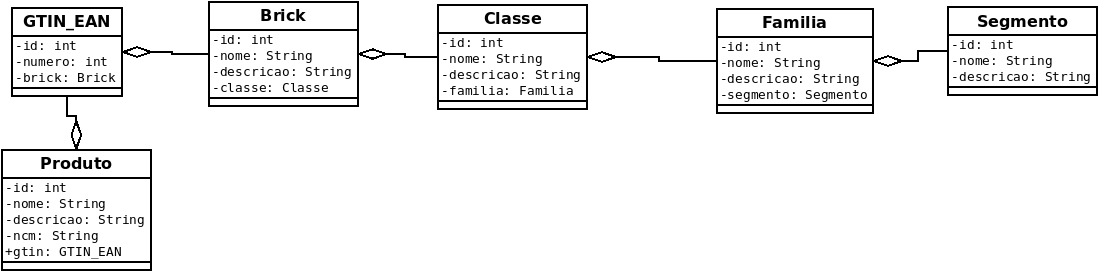
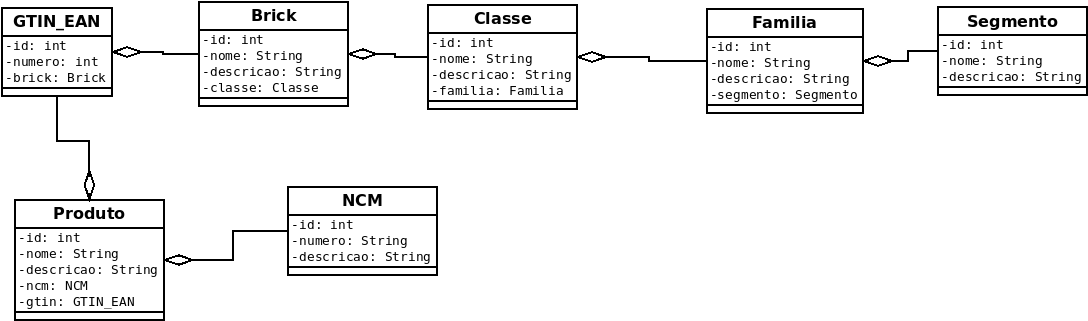
Atualizando modelo de NCM e modelagem da classe de Produto

Changed region(s): [[0.0, 0.0, 1.0, 1.0], [0.2188, 0.5588, 0.4062, 0.8824]]

diff --git a/orcaoline-api/src/test/java/com/orcaolineapi/repository/NCMRepositoryTest.java b/orcaoline-api/src/test/java/com/orcaolineapi/repository/NCMRepositoryTest.java
@@ -40,7 +40,7 @@ public class NCMRepositoryTest {
 	public void saveNCMWithNotNullIdShouldThrowsNoneException() {
 
 		assertDoesNotThrow(() -> {
-			NCM ncm = new NCM("12345678");
+			NCM ncm = new NCM("12345678","Descrição do NCM");
 			this.repositoryN.save(ncm);
 			assertThat(ncm.getId()).isNotNull();
 		});
@@ -59,21 +59,21 @@ public class NCMRepositoryTest {
 	}
 	
 	@Test
-	public void saveNCMNullNumberShouldThrowsDataIntegrityViolationException() {
+	public void saveNCMEmptyNumberShouldThrowsConstraintViolationException() {
 		
-		Throwable exception = assertThrows(DataIntegrityViolationException.class, () -> {			
-			NCM ncm = new NCM(null);
+		Throwable exception = assertThrows(ConstraintViolationException.class, () -> {			
+			NCM ncm = new NCM("", "Descrição do NCM");
 			this.repositoryN.save(ncm);
 		});
 		
-		assertEquals("Target object must not be null; nested exception is java.lang.IllegalArgumentException: Target object must not be null", exception.getMessage());
+		assertThat((exception.getMessage().contains("interpolatedMessage='{0} deve conter apenas dígitos.'")) && exception.getMessage().contains("interpolatedMessage='{0} deve ter o tamanho entre 8 e 8.'"));
 	}
 	
 	@Test
 	public void saveNCMWithBlankSpacesInNumberShouldThrowsConstraintViolationException() {
 
 		Throwable exception = assertThrows(ConstraintViolationException.class, () -> {
-			NCM ncm = new NCM("        ");
+			NCM ncm = new NCM("        ", "Descrição do NCM");
 			this.repositoryN.save(ncm);
 		});
 		
@@ -81,32 +81,65 @@ public class NCMRepositoryTest {
 	}
 	
 	@Test
+	public void saveNCMWithBlankDescriptionShouldThrowsNoneException() {
+
+		assertDoesNotThrow(() -> {
+			NCM ncm = new NCM("12345678","");
+			this.repositoryN.save(ncm);
+		});
+
+	}
+	
+	@Test
 	public void saveNCMWithEmptyNumberShouldThrowsConstraintViolationException() {
 
 		Throwable exception = assertThrows(ConstraintViolationException.class, () -> {
-			NCM ncm = new NCM("");
+			NCM ncm = new NCM("", "Descrição do NCM");
 			this.repositoryN.save(ncm);
 		});
 		
-		assertThat((exception.getMessage().contains("interpolatedMessage='{0} deve conter apenas letras.'")) && exception.getMessage().contains("interpolatedMessage='{0} deve ter o tamanho entre 8 e 8.'"));
+		assertThat((exception.getMessage().contains("interpolatedMessage='{0} deve conter apenas dígitos.'")) && exception.getMessage().contains("interpolatedMessage='{0} deve ter o tamanho entre 8 e 8.'"));
 	}
 	
 	@Test
 	public void saveNCMWithStringInNumberShouldThrowsConstraintViolationException() {
 
 		Throwable exception = assertThrows(ConstraintViolationException.class, () -> {
-			NCM ncm = new NCM("Numero do NCM");
+			NCM ncm = new NCM("Numero do NCM", "Descrição do NCM");
 			this.repositoryN.save(ncm);
 		});
 		
-		assertThat((exception.getMessage().contains("interpolatedMessage='{0} deve conter apenas letras.'")) && exception.getMessage().contains("interpolatedMessage='{0} deve ter o tamanho entre 8 e 8.'"));
+		assertThat((exception.getMessage().contains("interpolatedMessage='{0} deve conter apenas dígitos.'")) && exception.getMessage().contains("interpolatedMessage='{0} deve ter o tamanho entre 8 e 8.'"));
+	}
+	
+	@Test
+	public void saveNCMWithNumbersInDescriptionShouldThrowsConstraintViolationException() {
+
+		Throwable exception = assertThrows(ConstraintViolationException.class, () -> {
+			NCM ncm = new NCM("12345678","12345678");
+			this.repositoryN.save(ncm);
+		});
+
+		assertThat(exception.getMessage()).contains("interpolatedMessage='{0} deve conter apenas letras.'");
+
+	}
+	
+	@Test
+	public void saveNCMWithSpecialCharactersInNumberShouldThrowsConstraintViolationException() {
+
+		Throwable exception = assertThrows(ConstraintViolationException.class, () -> {			
+			NCM ncm = new NCM("@@@@@@@@@@", "Descrição do NCM");
+			this.repositoryN.save(ncm);
+		});
+
+		assertThat((exception.getMessage().contains("interpolatedMessage='{0} deve conter apenas dígitos.'")) && exception.getMessage().contains("interpolatedMessage='{0} deve ter o tamanho entre 8 e 8.'"));
 	}
 	
 	@Test
 	public void saveNCMWithSpecialCharactersInDescriptionShouldThrowsConstraintViolationException() {
 
 		Throwable exception = assertThrows(ConstraintViolationException.class, () -> {			
-			NCM ncm = new NCM("@@@@@@@@@@");
+			NCM ncm = new NCM("12345678", "@@@@@@@@@@");
 			this.repositoryN.save(ncm);
 		});
 
@@ -117,21 +150,35 @@ public class NCMRepositoryTest {
 	public void saveNCMWithTooLongNumberShouldThrowsConstraintViolationException() {
 		
 		Throwable exception = assertThrows(ConstraintViolationException.class, () -> {
-			NCM ncm = new NCM("123456789");
+			NCM ncm = new NCM("123456789", "Descrição do NCM");
 			this.repositoryN.save(ncm);
 		});
 
-		assertThat((exception.getMessage().contains("interpolatedMessage='{0} deve conter apenas letras.'")) && exception.getMessage().contains("interpolatedMessage='{0} deve ter o tamanho entre 8 e 8.'"));
+		assertThat((exception.getMessage().contains("interpolatedMessage='{0} deve conter apenas dígitos.'")) && exception.getMessage().contains("interpolatedMessage='{0} deve ter o tamanho entre 8 e 8.'"));
 	}
 	
 	@Test
 	public void saveNCMWithTooShortNumberShouldThrowsConstraintViolationException() {
 		
 		Throwable exception = assertThrows(ConstraintViolationException.class, () -> {
-			NCM ncm = new NCM("1234567");
+			NCM ncm = new NCM("1234567", "Descrição do NCM");
 			this.repositoryN.save(ncm);
 		});
 
 	    assertThat(exception.getMessage()).contains("interpolatedMessage='{0} deve ter o tamanho entre 8 e 8.'");
+	}
+	
+	@Test
+	public void saveNCMWithTooLongDescriptionShouldThrowsConstraintViolationException() {
+		
+		Throwable exception = assertThrows(ConstraintViolationException.class, () -> {
+			NCM ncm = new NCM("12345678", "Descrição do NCMDescrição do NCMDescrição do NCMDescrição do NCM"+
+					"Descrição do NCMDescrição do NCMDescrição do NCMDescrição do NCMDescrição do NCMDescrição do NCM"+
+					"Descrição do NCMDescrição do NCMDescrição do NCMDescrição do NCMDescrição do NCMDescrição do NCM"+
+					"Descrição do NCMDescrição do NCMDescrição do NCMDescrição do NCMDescrição do NCMDescrição do NCM");
+			this.repositoryN.save(ncm);
+		});
+
+	    assertThat(exception.getMessage()).contains("interpolatedMessage='{0} deve ter o tamanho entre 0 e 200.'");
 	}
 }

diff --git a/orcaoline-api/src/main/java/com/orcaolineapi/modelo/produto/NCM.java b/orcaoline-api/src/main/java/com/orcaolineapi/modelo/produto/NCM.java
@@ -5,6 +5,7 @@ import javax.persistence.GeneratedValue;
 import javax.persistence.GenerationType;
 import javax.persistence.Id;
 import javax.validation.constraints.Digits;
+import javax.validation.constraints.Pattern;
 import javax.validation.constraints.Size;
 
 import com.orcaolineapi.modelo.AbstractModel;
@@ -20,12 +21,17 @@ public class NCM extends AbstractModel {
 	@Size(min = 8, max = 8)
 	private String numero;
 	
+	@Size(min = 0, max = 200)
+	@Pattern(regexp = "^$|[A-Za-záàâãéèêíïóôõöúçñÁÀÂÃÉÈÍÏÓÔÕÖÚÇÑ ]+$")
+	private String descricao;
+	
 	public NCM() {
 		
 	}
 	
-	public NCM(String numero) {
+	public NCM(String numero, String descricao) {
 		this.numero = numero;
+		this.descricao = descricao;
 	}	
 
 	public Long getId() {
@@ -42,6 +48,14 @@ public class NCM extends AbstractModel {
 
 	public void setNumero(String numero) {
 		this.numero = numero;
+	}
+	
+	public String getDescricao() {
+		return descricao;
+	}
+	
+	public void setDescricao(String descricao) {
+		this.descricao = descricao;
 	}
 
 }

diff --git a/orcaoline-api/src/test/java/com/orcaolineapi/repository/ProdutoRepositoryTest.java b/orcaoline-api/src/test/java/com/orcaolineapi/repository/ProdutoRepositoryTest.java
@@ -92,7 +92,7 @@ public class ProdutoRepositoryTest {
 	}
 	
 	public NCM validNCM() {		
-		NCM ncm = new NCM("12345678");
+		NCM ncm = new NCM("12345678", "Descrição do NCM");
 		this.repositoryN.save(ncm);
 		return ncm;
 	}
